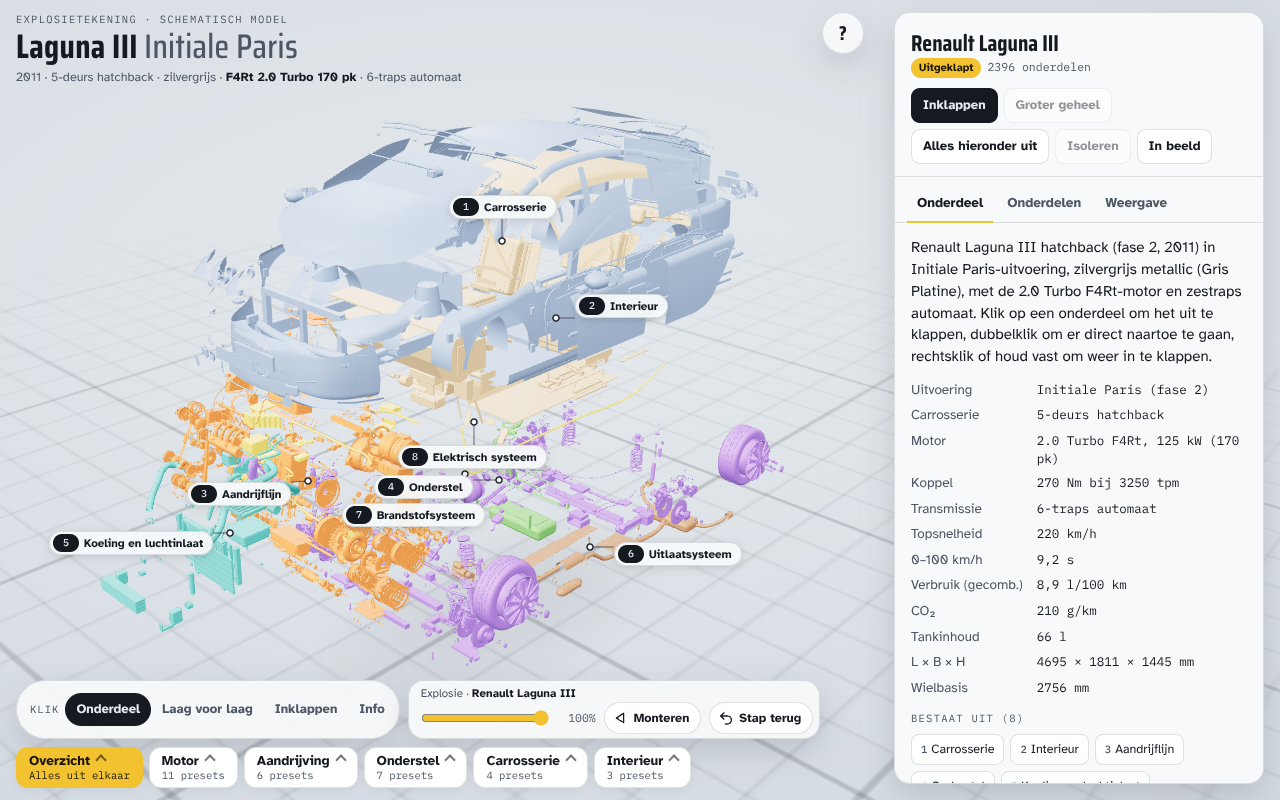
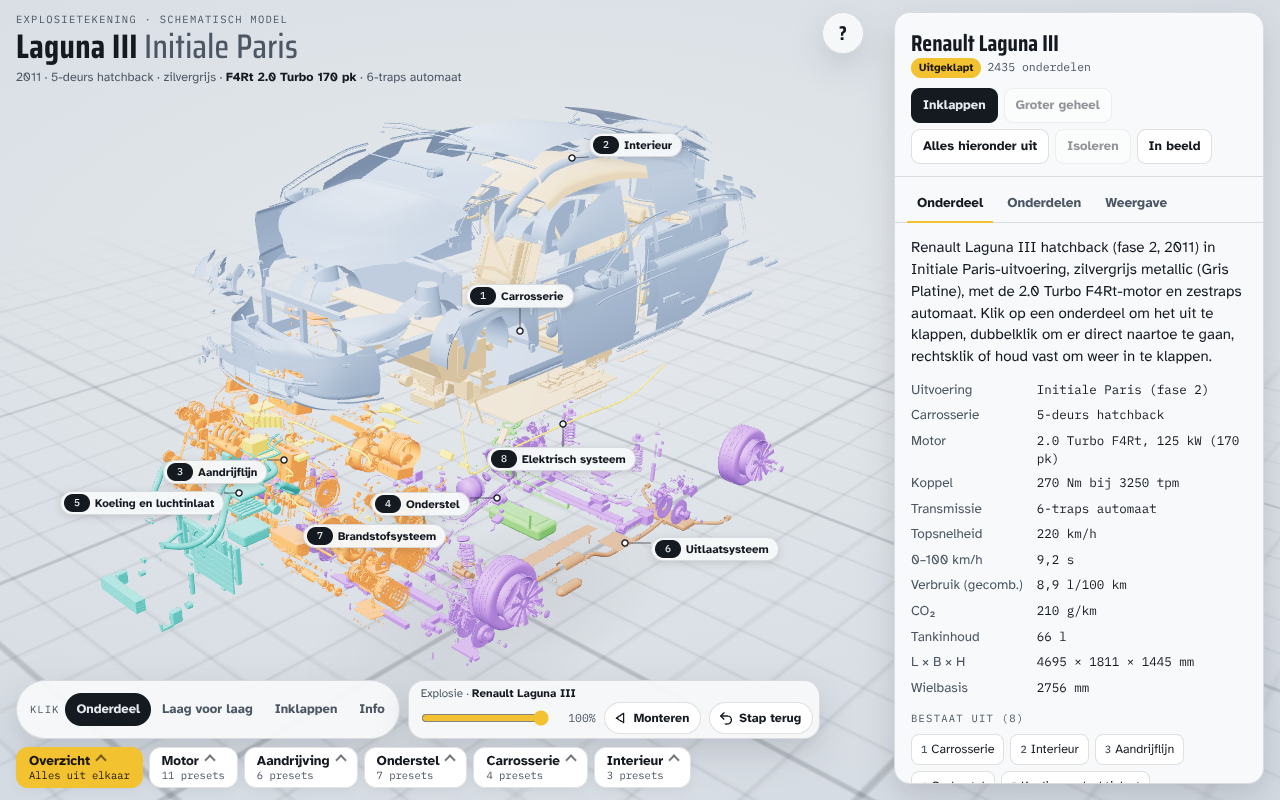
Screenshots in docs/screenshots opnieuw gemaakt op de eindstand (ff42dbd)
Met tools/orkestratie/docshots.py, op 1280 x 800 en 390 x 844 (mobiel.png), software-rendering.

Claude-Session: https://claude.ai/code/session_01SweHXh4huqndKbSzFXCsv5

diff --git a/README.md b/README.md
@@ -159,4 +159,4 @@ Alles uit elkaar: [docs/screenshots/alles-uit-elkaar.png](docs/screenshots/alles
 
 Telefoonweergave: [docs/screenshots/mobiel.png](docs/screenshots/mobiel.png)
 
-De screenshots in `docs/screenshots/` tonen de eindstand: ze zijn opnieuw gemaakt uit de build van `index.html` in `60909fe`, op 1280 × 800 (`mobiel.png` op 390 × 844 met pixelverhouding 2) en met software-rendering in de container.
+De screenshots in `docs/screenshots/` tonen de eindstand: ze zijn opnieuw gemaakt uit de bron van `ff42dbd` (dezelfde stand als de build van `index.html` in `5b6cefa`), op 1280 × 800 (`mobiel.png` op 390 × 844 met pixelverhouding 2) en met software-rendering in de container.
